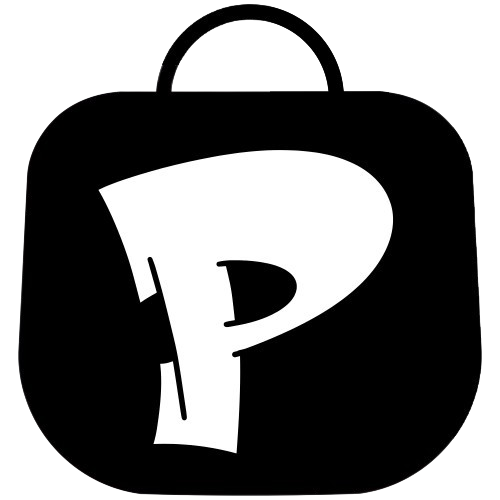
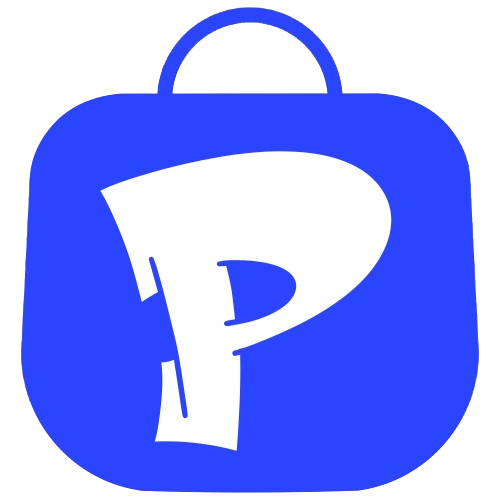
jhd

diff --git a/styles/styles.css b/styles/styles.css
@@ -2,7 +2,7 @@
 :root {
     --primary: #000000;
     --primary-dark: #000000;
-    --accent: #2b7cff;
+    --accent: #2b44ff;
     --accent-hover: #2b7cff;
     --green-text: #0ca434;
     --text: #555555;
@@ -193,7 +193,7 @@ ul { list-style: none; }
 }
 /* --- 4. MAIN NAVIGATION --- */
 .main-nav { 
-    background: rgba(244, 247, 246, 0.478); 
+    background: rgba(255, 255, 255, 0); 
     backdrop-filter: blur(10px);
     -webkit-backdrop-filter: blur(10px);
     padding: 20px 0; 
@@ -213,7 +213,7 @@ ul { list-style: none; }
 .main-nav.scrolled { 
     padding: 10px 0; 
     box-shadow: 0 5px 20px rgba(0,0,0,0.08); 
-    background: rgba(255, 255, 255, 0.95); /* Transition to clean white glass */
+    background: rgba(255, 255, 255, 0.481); /* Transition to clean white glass */
     border-color: rgba(0, 0, 0, 0.05);
 }
 .nav-wrapper { display: flex; justify-content: space-between; align-items: center; position: relative; }
@@ -489,12 +489,12 @@ ul { list-style: none; }
     position: absolute;
     top: -10%;
     right: -10%;
-    width: 400px;
+    width: 100%;
     height: 400px;
     z-index: 1;
     background: 
-        radial-gradient(circle at 15% 25%, rgba(255, 84, 27, 0.15) 0%, transparent 40%),
         radial-gradient(circle at 85% 15%, rgba(52, 168, 83, 0.15) 0%, transparent 40%),
+        radial-gradient(circle at 15% 25%, rgba(221, 221, 221, 0.15) 0%, transparent 40%),
         radial-gradient(circle at 50% 55%, rgba(66, 133, 244, 0.15) 0%, transparent 50%),
         radial-gradient(circle at 35% 85%, rgba(251, 188, 5, 0.15) 0%, transparent 40%);
     filter: blur(100px);
@@ -504,7 +504,7 @@ ul { list-style: none; }
 .hero-content {
     position: relative;
     z-index: 2;
-    max-width: 900px;
+    max-width: 1000px;
     animation: fadeInUp 1s ease-out;
 
 

diff --git a/header.html b/header.html
@@ -3,25 +3,11 @@
 <nav class="main-nav sticky-nav">
     <div class="container nav-wrapper">
         <a href="index.html" class="brand-logo">
-            <img src="assets/pidi.png" alt="PIDIMarketing Logo" height="32">
-            <span style="margin-top: 7px;">PIDIMarketing</span>
+            <img src="assets/pidi.png" alt="PIDIMarketing Logo" height="50">
+            <span style="margin-top: 7px;">PIDI Marketing</span>
         </a>
         
-        <div class="lang-selector">
-            <button class="lang-trigger" aria-haspopup="true">
-                <span class="active-lang">EN</span>
-                <span class="chevron"></span>
-            </button>
-            <ul class="lang-dropdown">
-                <li data-lang="EN">English (EN)</li>
-                <li data-lang="BR">Português (BR)</li>
-                <li data-lang="DE">Deutsch (DE)</li>
-                <li data-lang="ES">Español (ES)</li>
-                <li data-lang="IT">Italiano (IT)</li>
-                <li data-lang="NL">Nederlands (NL)</li>
-                <li data-lang="FR">Français (FR)</li>
-            </ul>
-        </div>
+
 
         <div class="nav-center">
             <ul class="desktop-nav">

diff --git a/index.html b/index.html
@@ -13,25 +13,10 @@
 <nav class="main-nav sticky-nav">
     <div class="container nav-wrapper">
         <a href="index.html" class="brand-logo">
-            <img src="assets/pidi.png" alt="PIDIMarketing Logo" height="32">
-            <span style="margin-top: 7px;">PIDIMarketing</span>
+            <img src="assets/pidi.png" alt="PIDIMarketing Logo" height="50">
+            <span style="margin-top: 7px;">PIDI Marketing</span>
         </a>
 
-        <div class="lang-selector">
-            <button class="lang-trigger" aria-haspopup="true">
-                <span class="active-lang">EN</span>
-                <span class="chevron"></span>
-            </button>
-            <ul class="lang-dropdown">
-                <li data-lang="EN">English (EN)</li>
-                <li data-lang="BR">Português (BR)</li>
-                <li data-lang="DE">Deutsch (DE)</li>
-                <li data-lang="ES">Español (ES)</li>
-                <li data-lang="IT">Italiano (IT)</li>
-                <li data-lang="NL">Nederlands (NL)</li>
-                <li data-lang="FR">Français (FR)</li>
-            </ul>
-        </div>
 
         <div class="nav-center">
             <ul class="desktop-nav">
